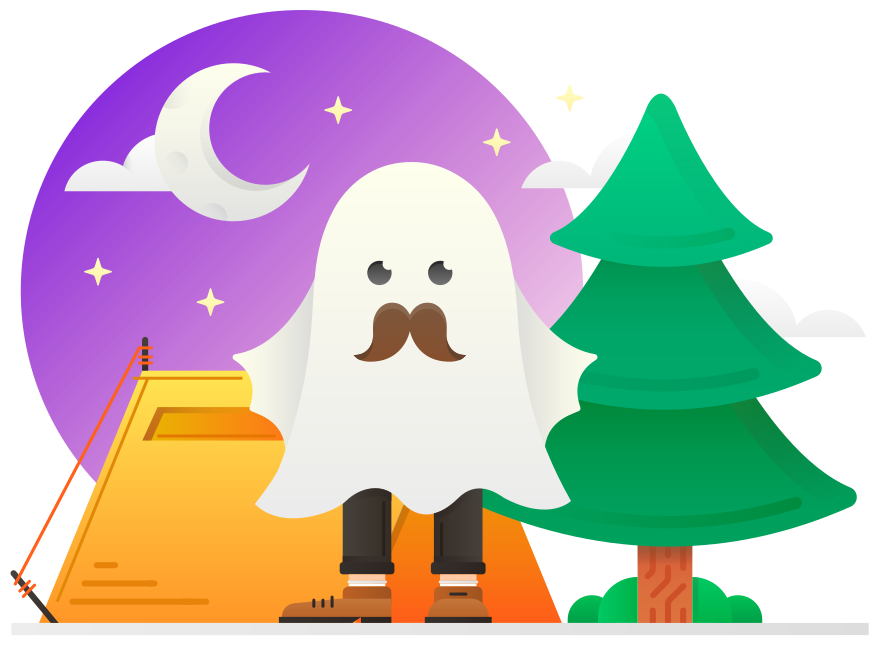
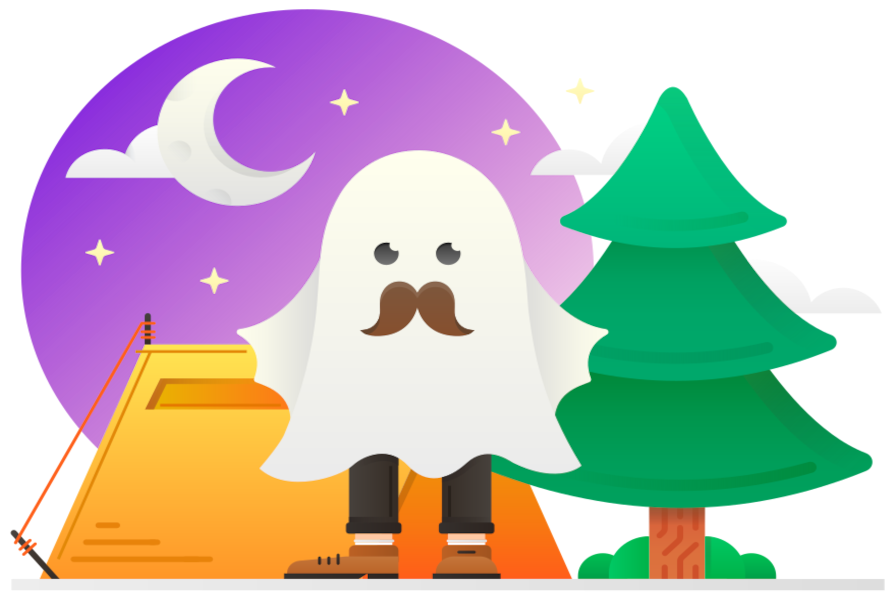
change img when theme is changed

Changed region(s): [[0.1536, 0.5347, 0.1843, 0.5644]]

diff --git a/assets/script.js b/assets/script.js
@@ -16,16 +16,22 @@ function changeText() {
     if(body.classList.contains(darkModeClass)) {
         button.innerHTML = '<i class="far fa-sun"></i> Change theme';
         description.innerHTML = 'You are currently viewing it in Dark Mode.'
-        
+        return;
     }
+
+    button.innerHTML = '<i class="far fa-moon"></i> Change theme';
+    description.innerHTML = 'You are currently viewing it in Light Mode.'
 }
 
 function changeImg() {
-    document.getElementById('image').src="imgs/hugo-moon.png"
-
+    if (body.classList.contains(darkModeClass)) {
+        document.getElementById('image').src="imgs/hugo-moon.png"
+        return;
+    }
+    document.getElementById('image').src="imgs/hugo-waiting.png"
 }
 
-const darkModeClass = 'dark-mode'
+const darkModeClass = 'dark-mode';
 const button = document.getElementById('mode-selector');
 const h1 = document.getElementById('main-title');
 const description = document.getElementById('description');

diff --git a/index.html b/index.html
@@ -13,8 +13,10 @@
             <p id="description">You are currently viewing it in Light Mode.</p>
             <p id="instruction">Try clicking the button below to change the theme.</p>
             
-            <img src="imgs/hugo-waiting.png" id="image">
-            
+            <div class="img-container">
+                <img src="imgs/hugo-waiting.png" id="image">
+            </div>
+
             <button role="button" id="mode-selector">
                 <i class="far fa-moon"></i> 
                 Change theme

diff --git a/assets/style.css b/assets/style.css
@@ -36,12 +36,13 @@ main {
     margin-bottom: 10px;
 }
 
-#image {
-    width: 70%;
-    margin: 10px;
-    padding: 20px;
+.img-container {
+    width: 60%;
 }
 
+#image {
+    width: 100%;
+}
 button {
     background-color: #FFBF00;
     padding: 15px 20px;
@@ -66,7 +67,7 @@ button.dark-mode:hover {
 }
 
 footer {
-    margin-top: 50px;
+    margin-top: 18px;
     padding: 10px 0px;
     text-align: center;
 }
